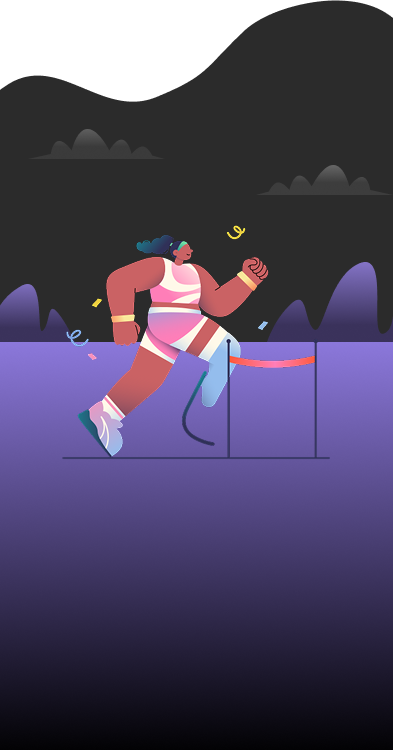
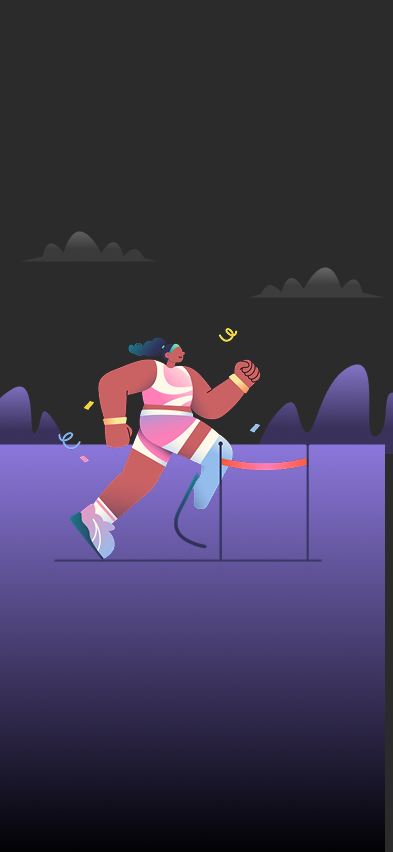
style: reorganizando estilos da page Home

diff --git a/app/(tabs)/app.tsx b/app/(tabs)/app.tsx
@@ -1,40 +1,74 @@
-import { Button, ImageBackground, StyleSheet, Text, View } from "react-native";
+import {
+  Button,
+  ImageBackground,
+  StyleSheet,
+  Text,
+  TouchableOpacity,
+  View,
+} from "react-native";
 
 export default function App() {
-    return (
-        <View style={style.container}>
-            <ImageBackground style={style.image} source={require('../../assets/images/bg-start.png')} >
-                <Text style={style.tittle}>RunFlow</Text>
-                <Text style={style.text}>Seu progresso começa com o primeiro passo. Corra e evolua!</Text>
-                <Button title="Button"/>
-            </ImageBackground>
-        </View>
-    )
+  return (
+    <View style={style.container}>
+      <ImageBackground
+        style={style.image}
+        source={require("../../assets/images/bg-start.png")}
+      >
+        <Text style={style.title}>RunFlow</Text>
+        <Text style={style.text}>
+          Seu progresso começa com o primeiro passo. Corra e evolua!
+        </Text>
+        <TouchableOpacity style={style.button}>
+            <Text style={style.buttonText}>Começar</Text>
+        </TouchableOpacity>
+      </ImageBackground>
+    </View>
+  );
 }
 
 const style = StyleSheet.create({
-    container: {
-        flex: 1,
-        backgroundColor: '#232323',
-    },
+  container: {
+    width: "100%",
+    height: "100%",
+    backgroundColor: "#232323",
+  },
 
-    image: {
-        height: '100%',
-        width: '100%',
-        resizeMode: 'cover',
-        justifyContent: 'flex-end',
-        alignItems: 'center',
-        paddingBottom: 80,
-        gap: 25
-    },
-    tittle: {
-        fontSize: 30,
-        fontWeight: 'semibold',
-        color: '#fff'
-    },
-    text: {
-        fontSize: 14,
-        fontWeight: 'regular',
-        color: '#fff'
-    }
-})
+  image: {
+    height: "100%",
+    width: "100%",
+    justifyContent: "flex-end",
+    alignItems: "center",
+    gap: 5,
+  },
+
+  title: {
+    fontSize: 30,
+    fontWeight: "semibold",
+    color: "#fff",
+  },
+
+  text: {
+    fontSize: 15,
+    fontWeight: "regular",
+    color: "#AEA8B2",
+    maxWidth: 247,
+    marginBottom: 20,
+    textAlign: "center",
+  },
+
+  button: {
+    width: 280,
+    height: 54,
+    marginBottom: 90,
+    borderRadius: 10,
+    alignItems: "center",
+    justifyContent: "center",
+    backgroundColor: "#896CFE",
+  },
+
+  buttonText: {
+    color: "#fff",
+    fontWeight: "semibold",
+    fontSize: 18,
+  },
+});
